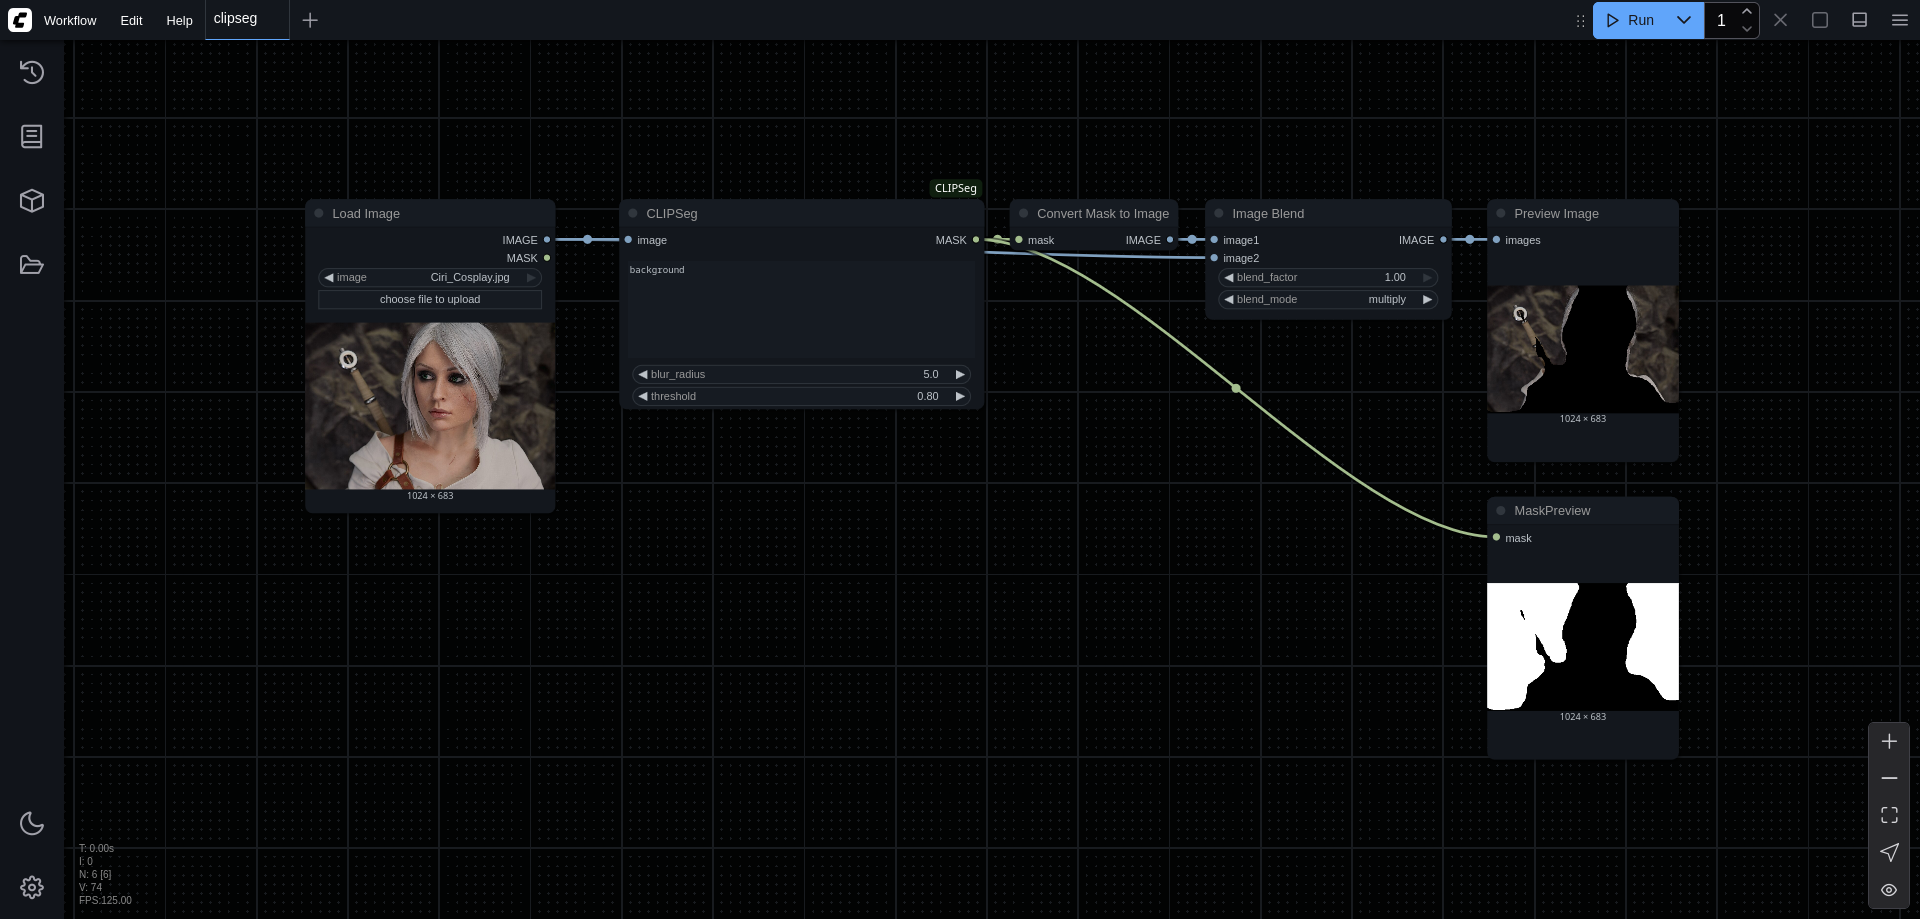
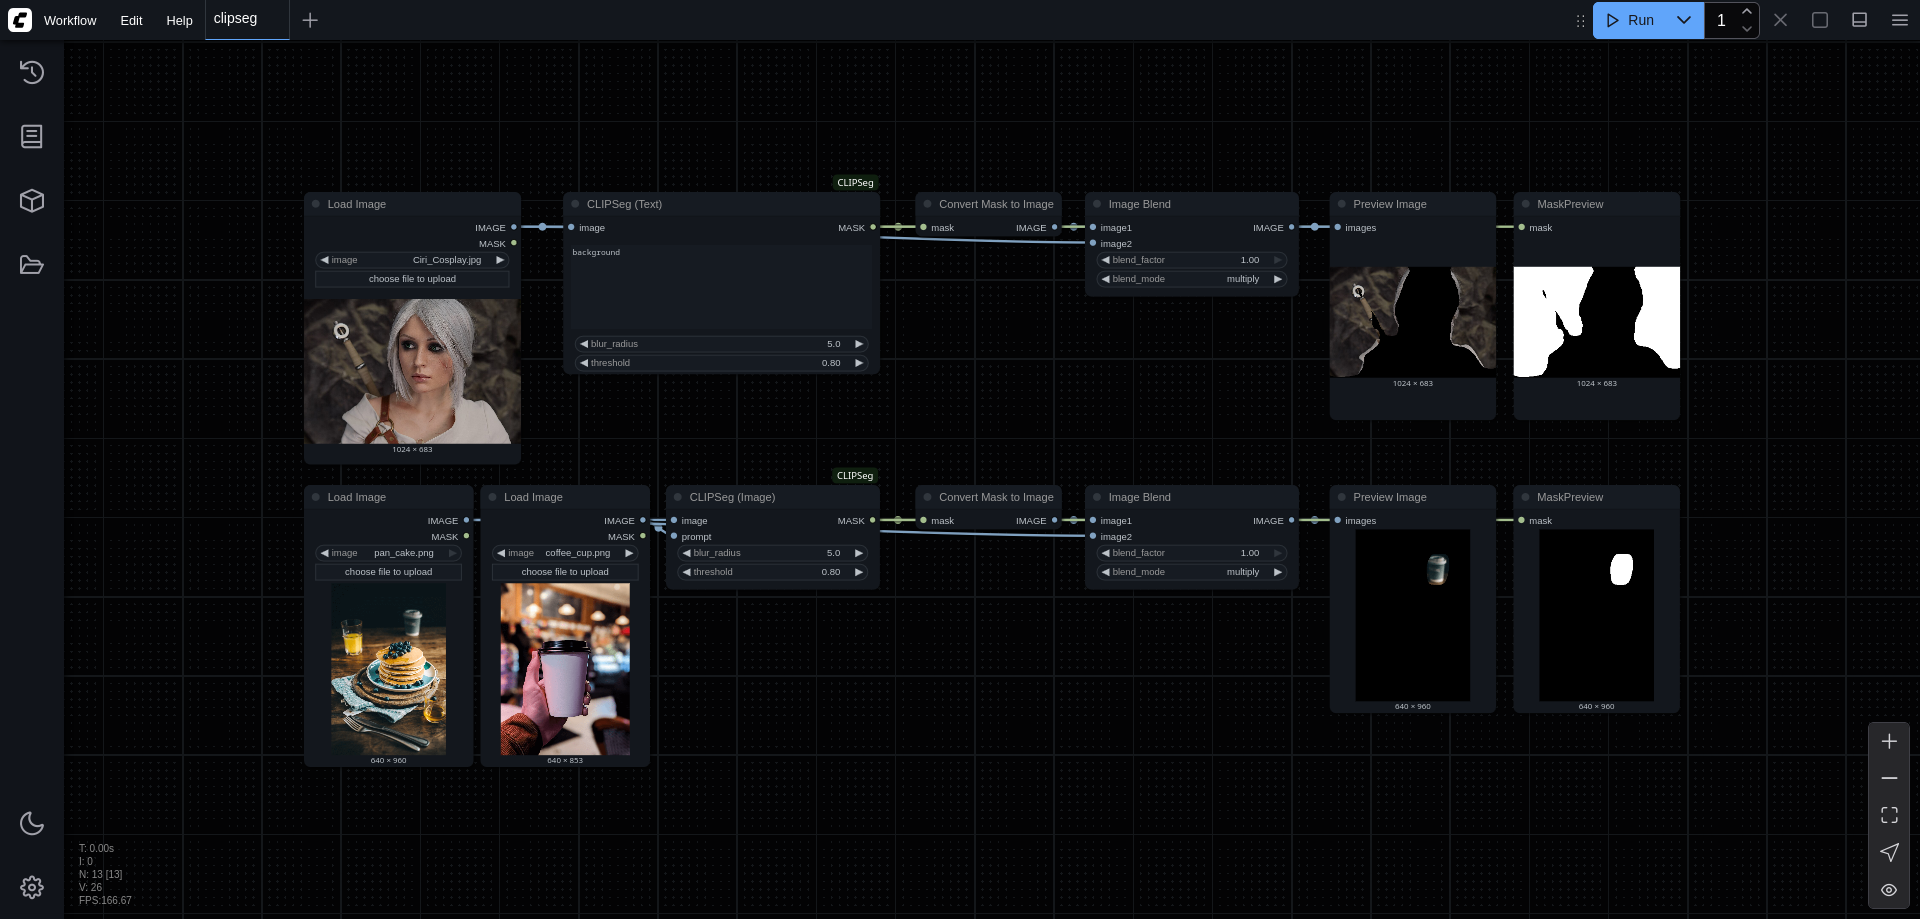
Add `CLIPSeg (Image)` node and rename `CLIPSeg` to `CLIPSeg (Text)`.

diff --git a/clipseg.py b/clipseg.py
@@ -31,7 +31,7 @@ def image2tensor(image: Image.Image) -> torch.Tensor:
     return ToTensor()(image)
 
 
-class CLIPSeg:
+class CLIPSegText:
     CATEGORY = "mask"
     RETURN_TYPES = ("MASK",)
     RETURN_NAMES = ("MASK",)
@@ -92,4 +92,63 @@ class CLIPSeg:
         return (image2tensor(output_img),)
 
 
-NODE_CLASS_MAPPINGS = {"CLIPSeg": CLIPSeg}
+class CLIPSegImage:
+    CATEGORY = "mask"
+    RETURN_TYPES = ("MASK",)
+    RETURN_NAMES = ("MASK",)
+    FUNCTION = "segment_image"
+
+    def __init__(self) -> None:
+        self.processor = AutoProcessor.from_pretrained("CIDAS/clipseg-rd64-refined")
+        self.model = CLIPSegForImageSegmentation.from_pretrained(
+            "CIDAS/clipseg-rd64-refined"
+        )
+
+    @classmethod
+    def INPUT_TYPES(cls):
+        return {
+            "required": {
+                "image": ("IMAGE",),
+                "prompt": ("IMAGE",)
+            },
+            "optional": {
+                "blur_radius": (
+                    "FLOAT",
+                    {"min": 0, "max": 10, "step": 0.5, "default": 5.0},
+                ),
+                "threshold": (
+                    "FLOAT",
+                    {"min": 0, "max": 1, "step": 0.01, "default": 0.5},
+                ),
+            },
+        }
+
+    def segment_image(
+        self, image: torch.Tensor, prompt: torch.Tensor, blur_radius: float, threshold: float
+    ) -> Tuple[torch.Tensor]:
+        original_img = tensor2image(image)
+        input_image = self.processor(
+            images=[original_img], return_tensors="pt"
+        )
+        prompt_image = self.processor(images=[tensor2image(prompt)], return_tensors="pt")
+
+        with torch.no_grad():
+            outputs = self.model(**input_image, conditional_pixel_values=prompt_image.pixel_values)
+        preds = outputs.logits.unsqueeze(1)
+        tensor = torch.sigmoid(preds[0][0])
+
+        tensor = torch.where(tensor > threshold**2, 1.0, 0.0)
+        tensor = image2tensor(
+            tensor2image(tensor).filter(ImageFilter.GaussianBlur(blur_radius))
+        )
+        tensor = torch.where(tensor > 0, 1.0, 0.0)
+        output_img = tensor2image(tensor)
+        output_img = output_img.resize(
+            (original_img.width, original_img.height),
+            resample=Image.Resampling.BILINEAR,
+        )
+
+        return (image2tensor(output_img),)
+
+
+NODE_CLASS_MAPPINGS = {"CLIPSeg (Text)": CLIPSegText, "CLIPSeg (Image)": CLIPSegImage}

diff --git a/__init__.py b/__init__.py
@@ -19,4 +19,5 @@ except ImportError:
     pass
 else:
     from .clipseg import NODE_CLASS_MAPPINGS
+
     __all__ = ["NODE_CLASS_MAPPINGS"]

diff --git a/README.md b/README.md
@@ -1,6 +1,6 @@
 # ComfyUI-CLIPSeg
 
-Using [CLIPSeg model](https://huggingface.co/docs/transformers/main/en/model_doc/clipseg) to generate masks for image inpainting tasks based on text prompts.
+Using [CLIPSeg model](https://huggingface.co/docs/transformers/main/en/model_doc/clipseg) to generate masks for image inpainting tasks based on text or image prompts.
 
 ![Usage of ComfyUI-CLIPSeg](example.png)
 
@@ -20,18 +20,14 @@ Using [CLIPSeg model](https://huggingface.co/docs/transformers/main/en/model_doc
 
 3. Restart ComfyUI.
 
-The plugin will automatically download the [CIDAS/clipseg-rd64-refined](https://huggingface.co/CIDAS/clipseg-rd64-refined) model from Hugging Face the first time you use it.
+The plugin will automatically download the [CIDAS/clipseg-rd64-refined](https://huggingface.co/CIDAS/clipseg-rd64-refined) model on first use.
 
 If you have installed ComfyUI properly then there is no need to install any additional dependencies.
 
 ## Usage
 
-Once installed, you'll find a new node called `CLIPSeg` under the `mask` category in ComfyUI.
+After installation, find the new nodes under the `mask` category in ComfyUI:
 
-First, drag and drop the `CLIPSeg` node into your workflow.
+- **CLIPSeg (Text)**: Enter one or more prompts separated by commas.
 
-In the text input field, enter your desired prompts. You can specify multiple elements separated by commas.
-
-Then connect the node to your image input (e.g., Load Image, Inpainting Pipeline).
-
-Run the workflow and a binary mask based on your text description will be generated.
+- **CLIPSeg (Image)**: Connect your input image and a reference image as prompt.
